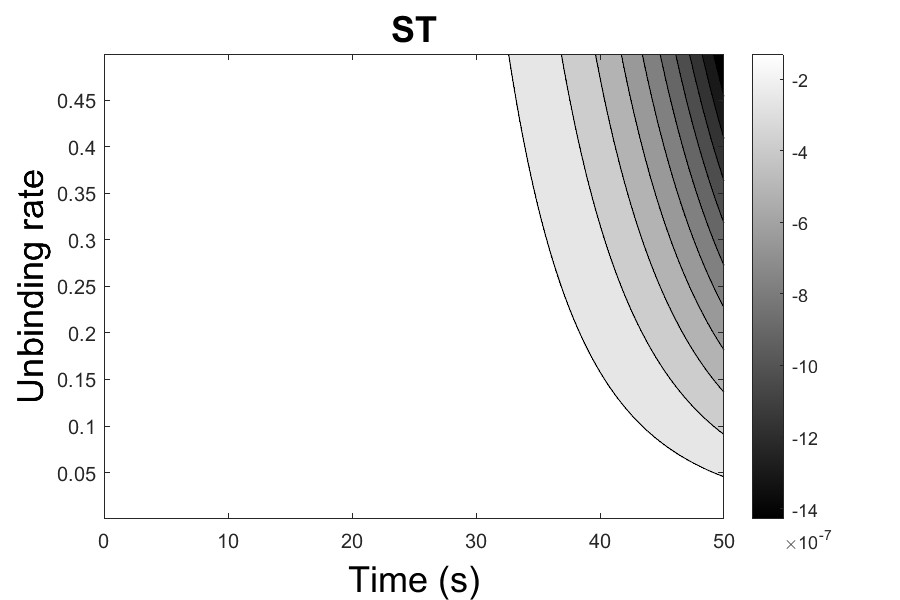
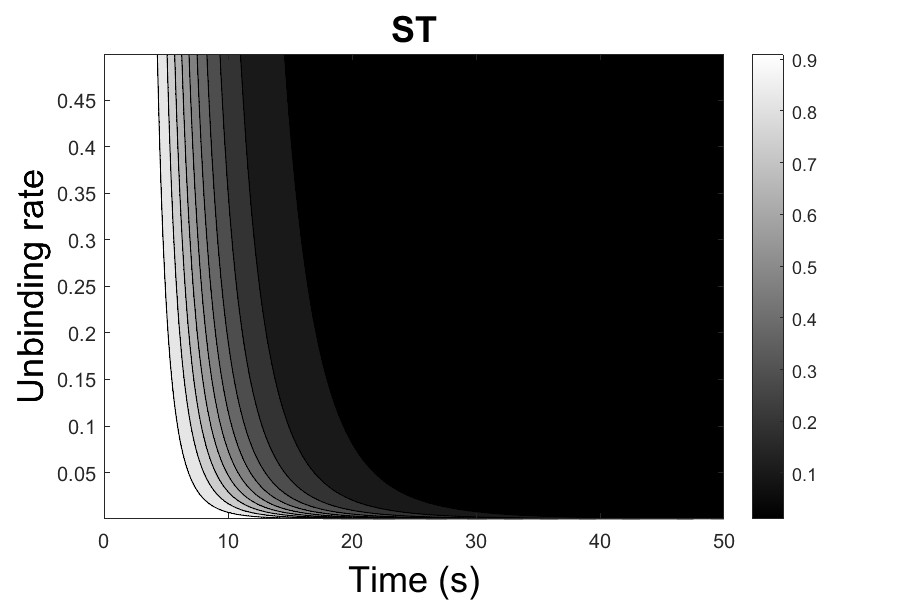
n

diff --git a/Sensitivity Analysis/SerialTriggeringSensitivity.m b/Sensitivity Analysis/SerialTriggeringSensitivity.m
@@ -3,13 +3,27 @@ clear
 %% VALORES INICIALES INTEGRACIÓN DEL MODELO
     %% Serial Triggering
     % initial values
-    x0 = complex([0, 0, 0, 0], 0); 
+    x0 = complex([0, 0, 0], 0); 
     % step size and time interval in days
     d = 1.0e-16; 
     tspan = 0.0:0.05:50;
     % p(1) = lambda, p(2) = phi, p(3) = s, p(4) = keff, p(5) = h, p(6) = L, p(7) = ki
-    p = complex([0.61, 0.0055, 0.0011, 0.001, 5, 1, 0.094], 0);
+    %p = complex([0.61, 0.0055, 0.0011, 0.001, 5, 1, 0.094], 0);
+
+    % p(1) = varphi, p(2) = lambda, p(3) = sigma, p(4) = k_eff, p(5) = h, p(6) = k_i, p(7) = L
+    p = complex([0.0055, 0.61,  0.0011, 0.001, 5, 0.094, 100], 0);
+
     solution = sensitivity(x0, p, d, tspan); 
+
+        % solution{estado}(:, nºparametro)
+    NewSolR = solution{3}(:, 1);
+    figure
+    % Crear el gráfico
+    plot(tspan, NewSolR);
+    xlabel('t');
+    legend;
+    title('Response');
+    hold on
 
     % --------------- EFFECTIVE RATE -----------------------------
 % Vector de valores de koff
@@ -17,17 +31,17 @@ keffVect = 0.0001:0.0005:0.5;
 
 % Resultados con el número de filas de koff y en cada columna el instante
 % temporal
-results_matrix = zeros(length(keffVect), length(solution{4}(:, 1))); 
+results_matrix = zeros(length(keffVect), length(solution{3}(:, 1))); 
 for i = 1:length(keffVect)
 
-    p = complex([0.61, 0.0055, 0.0011, keffVect(i), 5, 1, 0.094], 0);
+    p = complex([0.0055, 0.61,  0.0011, keffVect(i), 5, 0.094, 100], 0);
 
     solution = sensitivity(x0, p, d, tspan);
 
     % COJO LA RESPUESTA QUE ME INTERESA:
-    SolResponse = solution{4}(:, 5); 
+    SolResponse = solution{3}(:, 5); 
     % Normalización de la respuesta
-    newSol = (SolResponse .* keffVect(i)) ./ solution{4}(:, 1); 
+    newSol = (SolResponse .* keffVect(i)) ./ solution{3}(:, 1); 
 
     % En la fila que define un valor de koff
     results_matrix(i, :) = newSol;
@@ -145,7 +159,7 @@ hold on
 %% FUNCIONES
 function solution = sensitivity(x0, p, d, tspan)
 
-    ST = @(t,y)ODESerialTrig(t, y, p);
+    ST = @(t,y)ODESTMod(t, y, p);
     options = odeset('RelTol',1e-6,'AbsTol',1e-9, 'Refine', 1);
     [t,x] = ode45(ST, tspan, x0, options);
     
@@ -168,7 +182,7 @@ function solution = sensitivity(x0, p, d, tspan)
         p(j) = p(j) + d * 1i; % Perturba el parámetro
         
         options = odeset('RelTol',1e-6,'AbsTol',1e-9, 'Refine', 1);
-        ST = @(t,y)ODESerialTrig(t, y, p);
+        ST = @(t,y)ODESTMod(t, y, p);
         [t,x] = ode45(ST, tspan, x0, options);
         
         % Está destinada a restablecer el parámetro p[j] a su valor original, eliminando cualquier componente imaginaria que se haya agregado durante el proceso de perturbación.
@@ -200,3 +214,15 @@ function dx = ODESerialTrig(t, x, p)
     dx(3) = p(4) * (x(2)^p(5)) * (p(6)^p(5)) - p(7) * x(3);
     dx(4) = x(1) / (p(1) + 1) + ((x(2) + x(3)) * p(1) / (p(1) + 1));
 end
+
+function dx = ODESTMod(t, x, p)
+    dx = zeros(3, 1);
+
+    % Definir las ecuaciones diferenciales
+    % p(1) = varphi, p(2) = lambda, p(3) = sigma, p(4) = k_eff, p(5) = h, p(6) = k_i, p(7) = L
+    dx(1) = -p(1) * (x(1) - (1 / p(2)) * x(2)) + p(3) * (1 / (1 + p(2)) - x(1));  % Ecuación para dS/dt
+    dx(2) = p(1) * (x(1) - (1 / p(2)) * x(2)) + p(3) * (p(2) / (1 + p(2)) - x(2)) - p(4) * x(2)^p(5) * p(7)^p(5);  % Ecuación para dT/dt
+    dx(3) = p(4) * x(2)^p(5) * p(7)^p(5) - p(6) * x(3);  % Ecuación para dA/dt
+end
+
+
